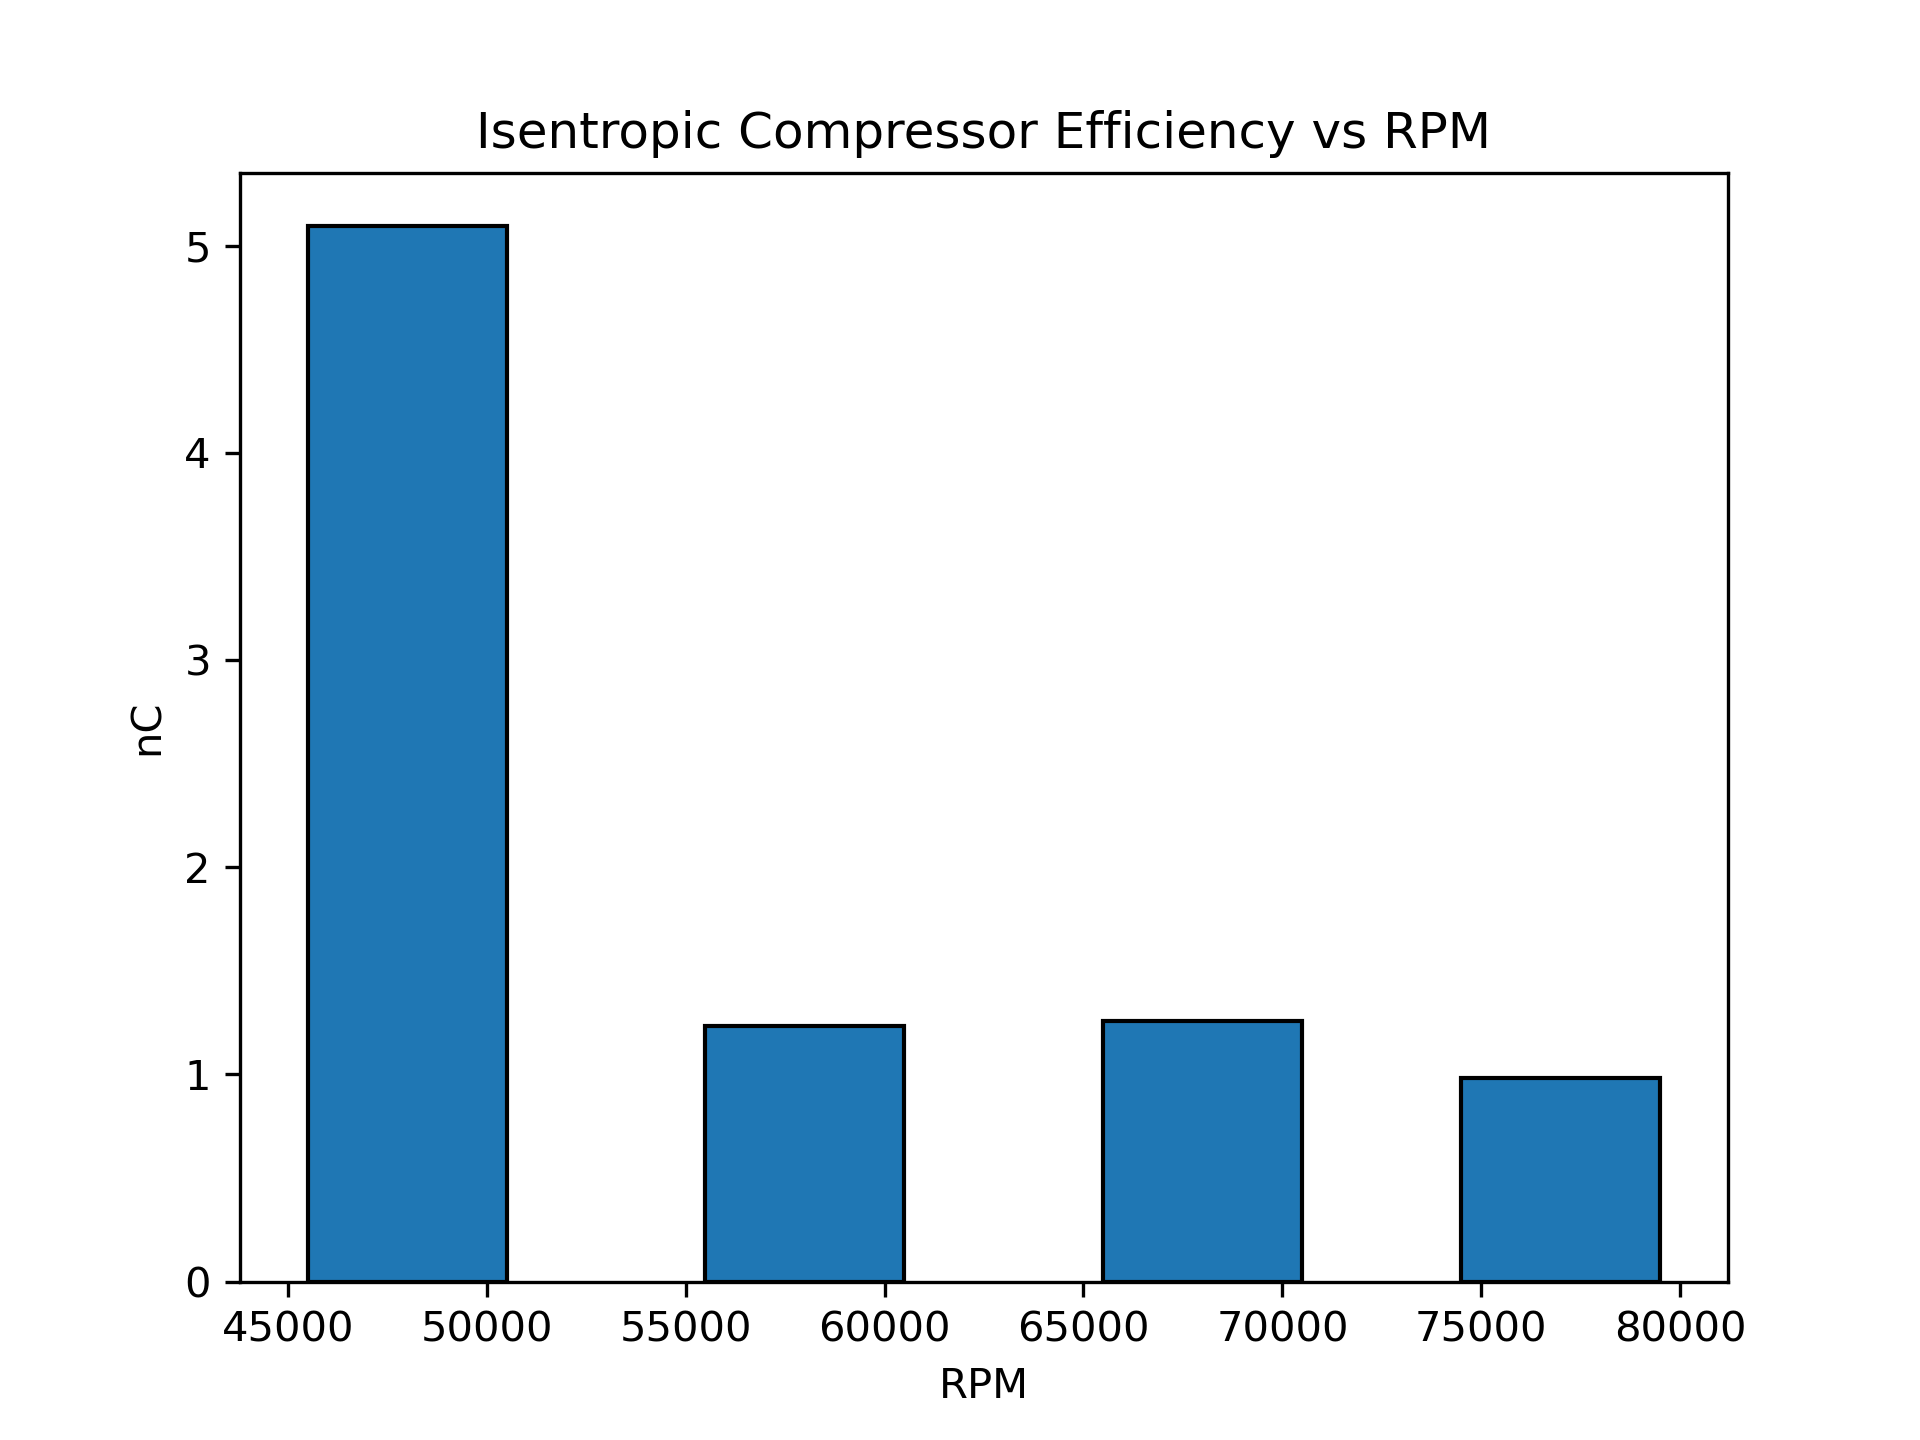
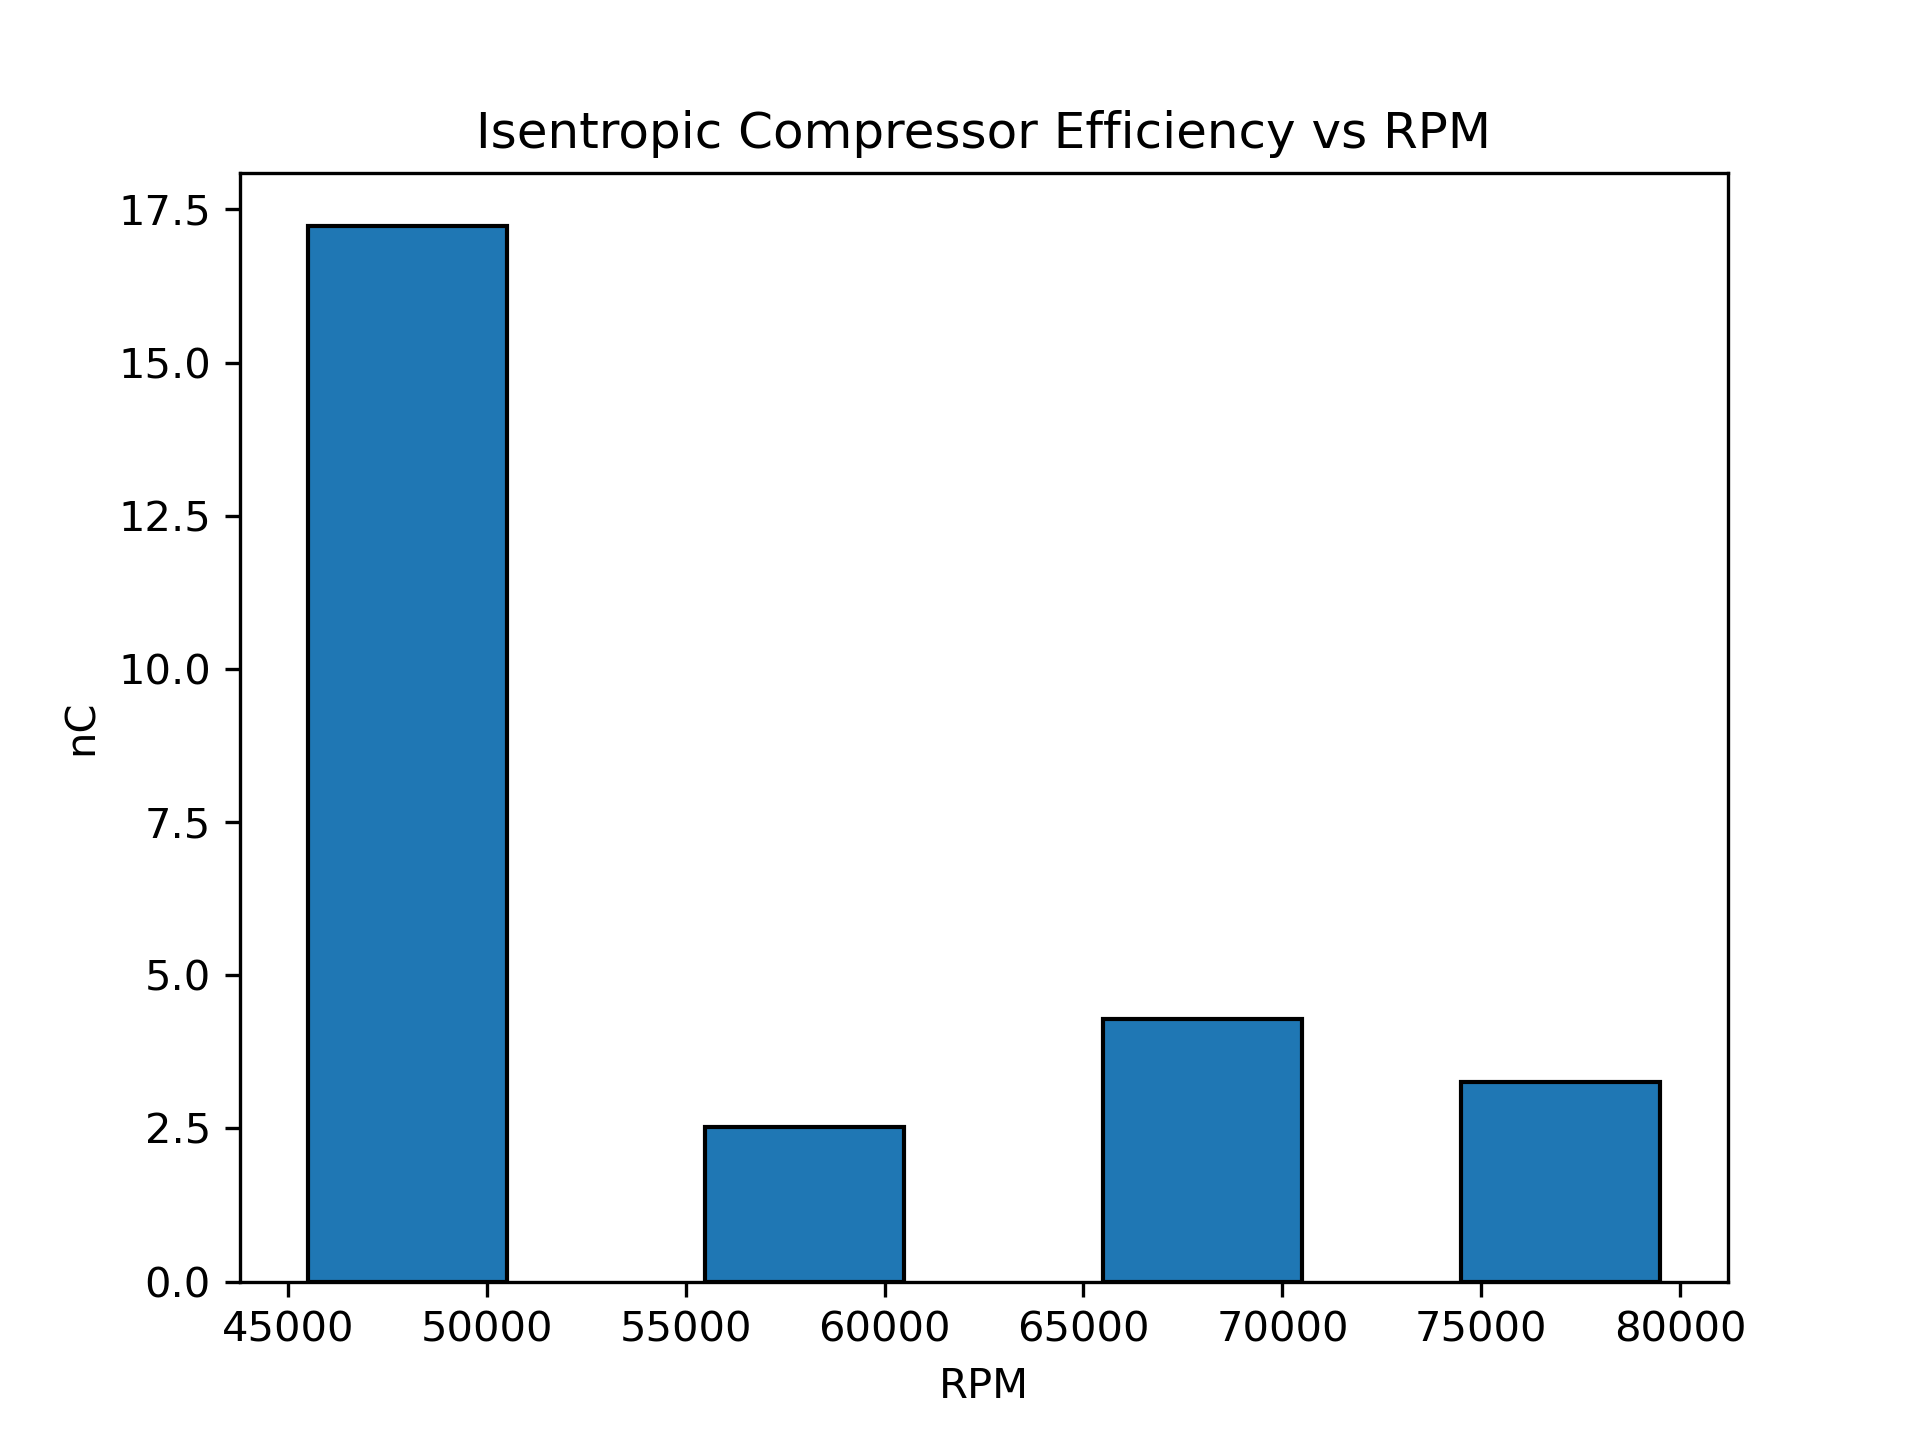
error

diff --git a/Lab 5/lab_5.py b/Lab 5/lab_5.py
@@ -196,15 +196,15 @@ print(h2Values)
 
 rpm = np.array([48000, 58000, 68000, 77000])
 # ########## Question 4 ##########
-# h1 = np.array([296.6773, 96.9568, 296.8345, 296.5224])
-# h2 = np.array([326.7553, 383.5246, 418.5055, 452.7588])
-# h2s = 450*np.ones(len(h2))
-# nC = (h2s - h1) / (h2 - h1)
-# plt.bar(rpm, nC, width=0.5*(rpm[1]-rpm[0]), ec='k', lw=1)
-# plt.xlabel('RPM')
-# plt.ylabel('nC')
-# plt.title('Isentropic Compressor Efficiency vs RPM')
-# plt.savefig("Question_4.png", dpi = 300)
+h1 = np.array([296.6773, 96.9568, 296.8345, 296.5224])
+h2 = np.array([326.7553, 383.5246, 418.5055, 452.7588])
+h2s = h2Values
+nC = (h2s - h1) / (h2 - h1)
+plt.bar(rpm, nC, width=0.5*(rpm[1]-rpm[0]), ec='k', lw=1)
+plt.xlabel('RPM')
+plt.ylabel('nC')
+plt.title('Isentropic Compressor Efficiency vs RPM')
+plt.savefig("Question_4.png", dpi = 300)
 # ########## Question 5 ##########
 # h3 = np.array([806.7255, 946.4309, 1037.525, 1119.557])
 # h4 = np.array([475.957, 593.3661, 605.2865, 630.9921])
@@ -216,11 +216,11 @@ rpm = np.array([48000, 58000, 68000, 77000])
 # plt.title('Thermal Efficiency vs RPM')
 # plt.savefig("Question_5.png", dpi = 300)
 # ########## Question 6 ##########
-fuelBurn = (1000 / 3600) * np.array([12.0913, 14.3843, 16.9846, 23.0152])
-thrust = np.array([22.9820, 39.5724, 54.2893, 81.4098])
-SFC = fuelBurn / thrust
-plt.bar(rpm, SFC, width=0.5*(rpm[1]-rpm[0]), ec='k', lw=1)
-plt.xlabel('RPM')
-plt.ylabel('SFC')
-plt.title('Specific Fuel Consumption vs RPM')
-plt.savefig("Question_6.png", dpi = 300)
+# fuelBurn = (1000 / 3600) * np.array([12.0913, 14.3843, 16.9846, 23.0152])
+# thrust = np.array([22.9820, 39.5724, 54.2893, 81.4098])
+# SFC = fuelBurn / thrust
+# plt.bar(rpm, SFC, width=0.5*(rpm[1]-rpm[0]), ec='k', lw=1)
+# plt.xlabel('RPM')
+# plt.ylabel('SFC')
+# plt.title('Specific Fuel Consumption vs RPM')
+# plt.savefig("Question_6.png", dpi = 300)
